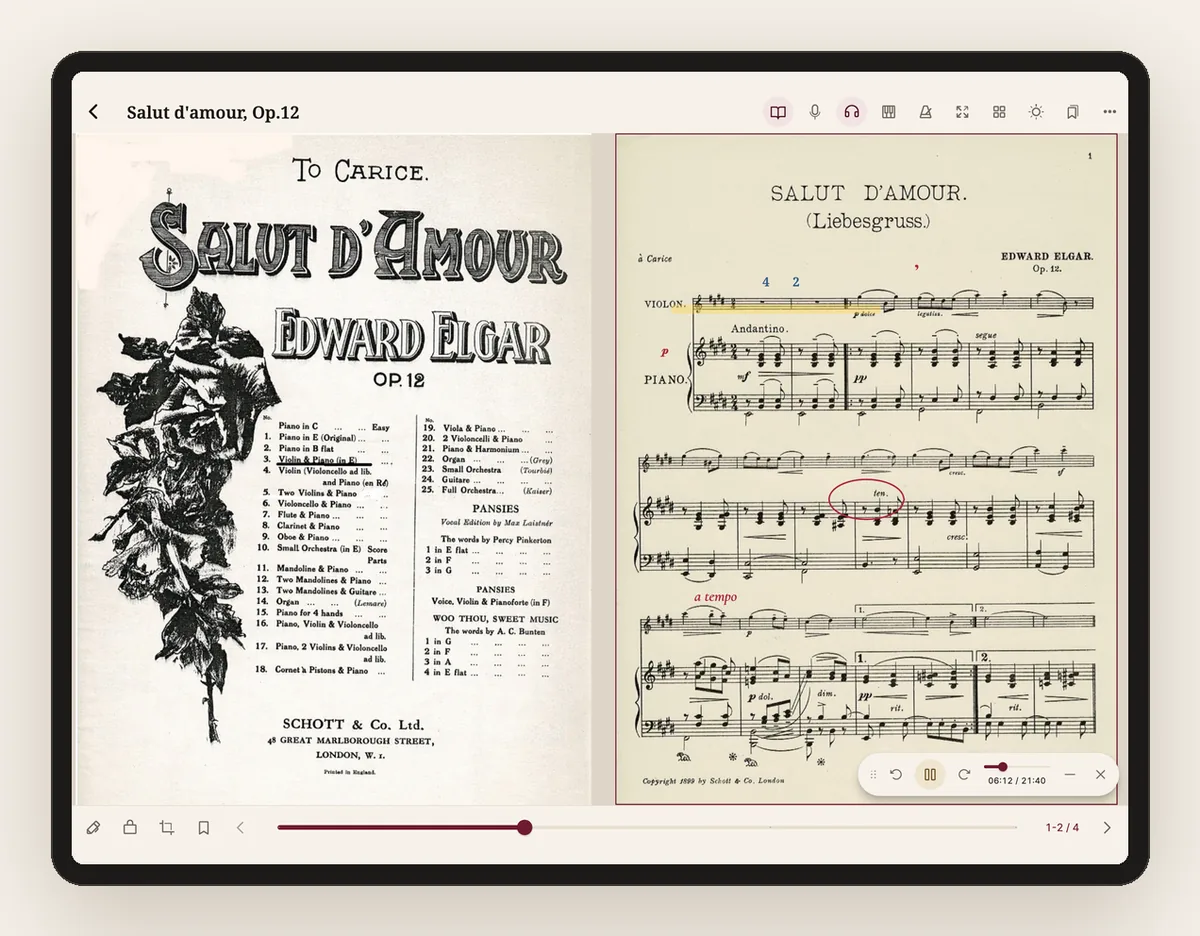
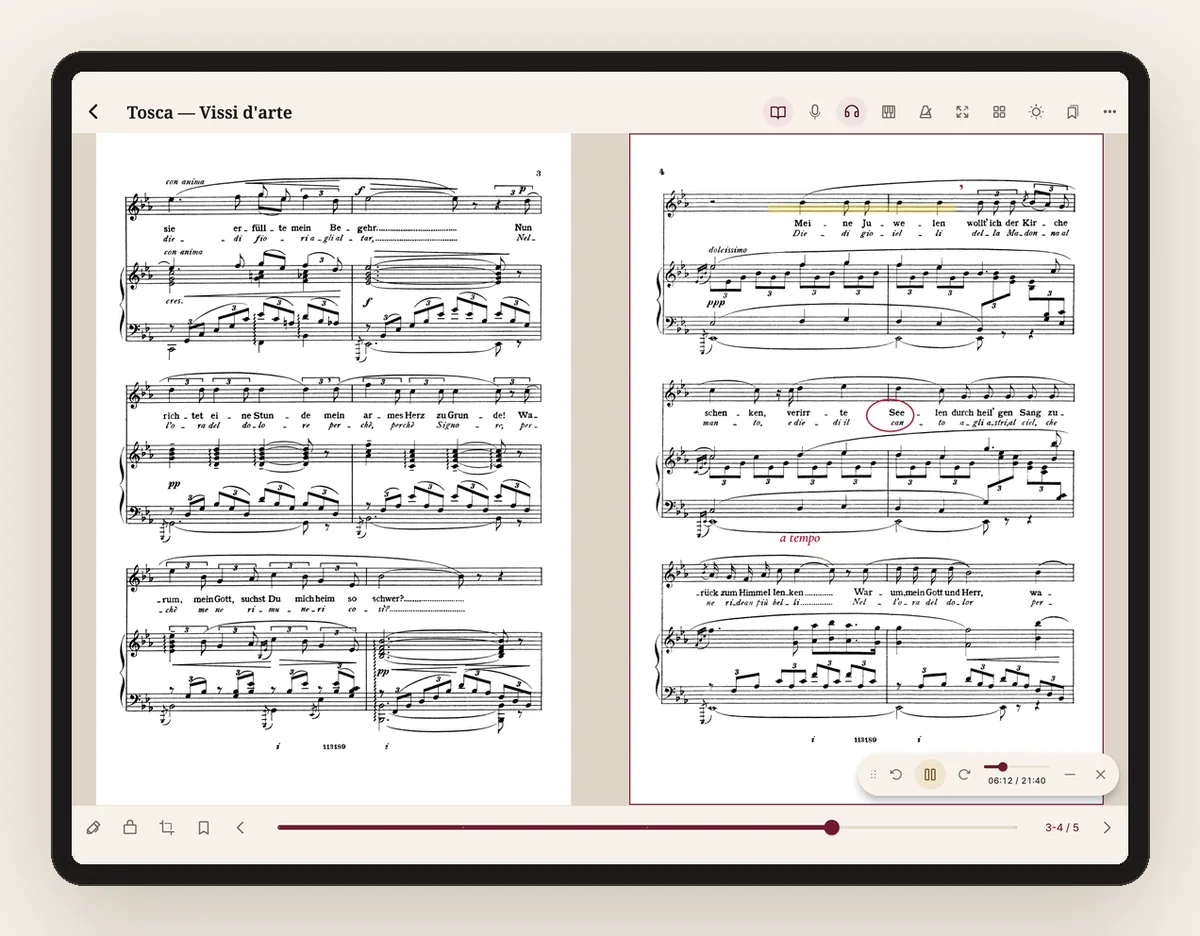
첫 그림과 녹음 설명의 악보를 토스카 「Vissi d'arte」로 (대표님)
살뤼 다무르는 누런 세피아 스캔이라 종이가 탁했다. 대표님이 성악가이니
성악 악보로 바꾼다. 흰 종이, 두 쪽 모두 실제 악보 쪽, 성악가가 연필로
남길 법한 표시(강조, 숨표, 동그라미, a tempo)까지 들어간 화면이다.

렛지 세션이 goldens/hero/<이름>-<언어>.png 로 후보를 뽑아 두었다.
HERO_SCORE 환경변수로 고른다(tosca34 기본, tosca12·otello·salut 도 가능).
첫 그림과 '녹음하면 악보가 따라 넘어갑니다' 설명 그림이 같은 화면을 쓴다.

요약 판 타일 2·3 은 아직 예전 스토어 스크린샷(살뤼)이다. 스토어
스크린샷을 새 화면으로 바꿀 때 함께 바꾼다.

diff --git a/leggii_hero.py b/leggii_hero.py
@@ -21,6 +21,15 @@ import os
 from PIL import Image, ImageDraw, ImageFilter
 
 GOLD = "/Users/jameslee/App/leggii/test_screenshots/goldens"
+# 첫 그림과 '녹음' 설명에 쓸 악보 화면. 렛지 세션이 goldens/hero/<이름>-<언어>.png 로
+# 후보를 뽑아 둔다(2026-11-17, 대표님: 성악가니까 성악 악보로, 토스카 「Vissi d'arte」).
+# 없으면 예전 장면(ipad/<언어>-3.png)으로 돌아간다.
+HERO_SCORE = os.environ.get("HERO_SCORE", "tosca34")
+
+
+def score_shot(lang):
+    cand = f"{GOLD}/hero/{HERO_SCORE}-{lang}.png"
+    return cand if os.path.exists(cand) else f"{GOLD}/ipad/{lang}-3.png"
 OUT = os.path.join(os.path.dirname(os.path.abspath(__file__)), "leggii", "shots")
 LANGS = ("ko", "en", "de")
 
@@ -63,7 +72,7 @@ def device(canvas, shot, box, bezel, radius):
 
 
 def build(lang):
-    pad_shot = Image.open(f"{GOLD}/ipad/{lang}-3.png")
+    pad_shot = Image.open(score_shot(lang))
     phone_shot = Image.open(f"{GOLD}/iphone/{lang}-1.png")
 
     canvas = Image.new("RGB", (W, H), BG)
@@ -100,7 +109,7 @@ DEEP = (3, 4, 5)
 
 
 def deep(lang, num):
-    shot = Image.open(f"{GOLD}/ipad/{lang}-{num}.png")
+    shot = Image.open(score_shot(lang) if num == 3 else f"{GOLD}/ipad/{lang}-{num}.png")
     bezel, radius, m = 22, 34, 54
     sw = 1120
     sh_ = round(sw * shot.height / shot.width)
